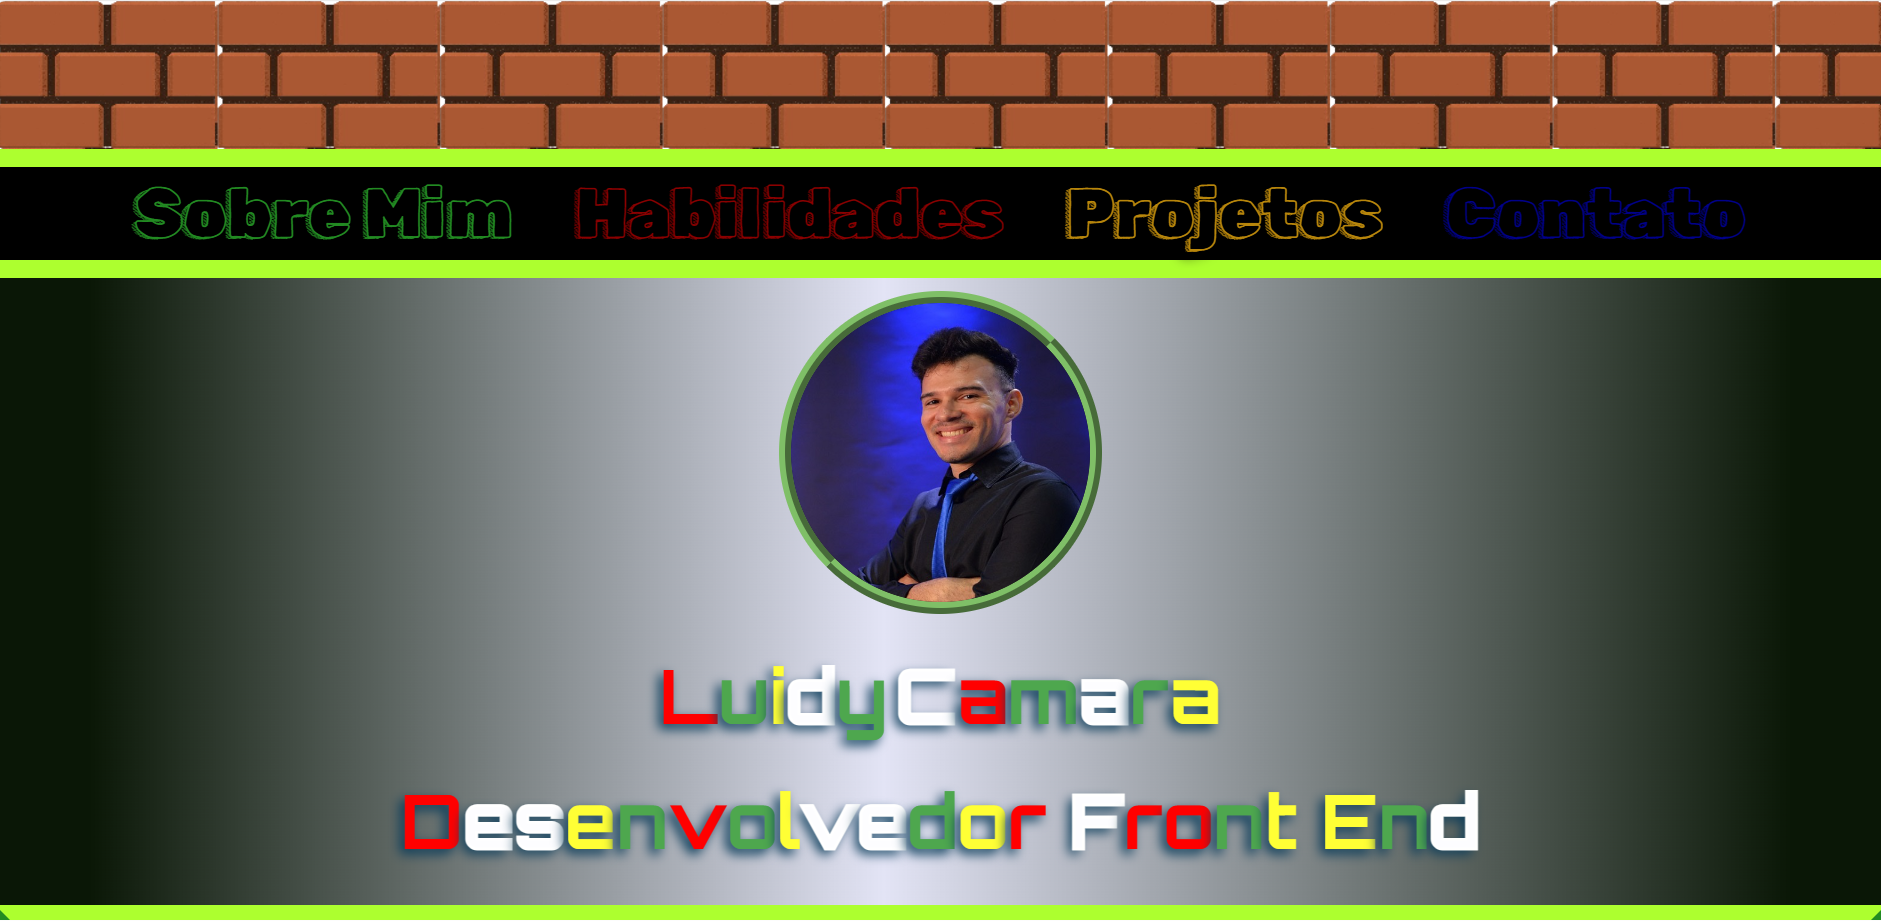
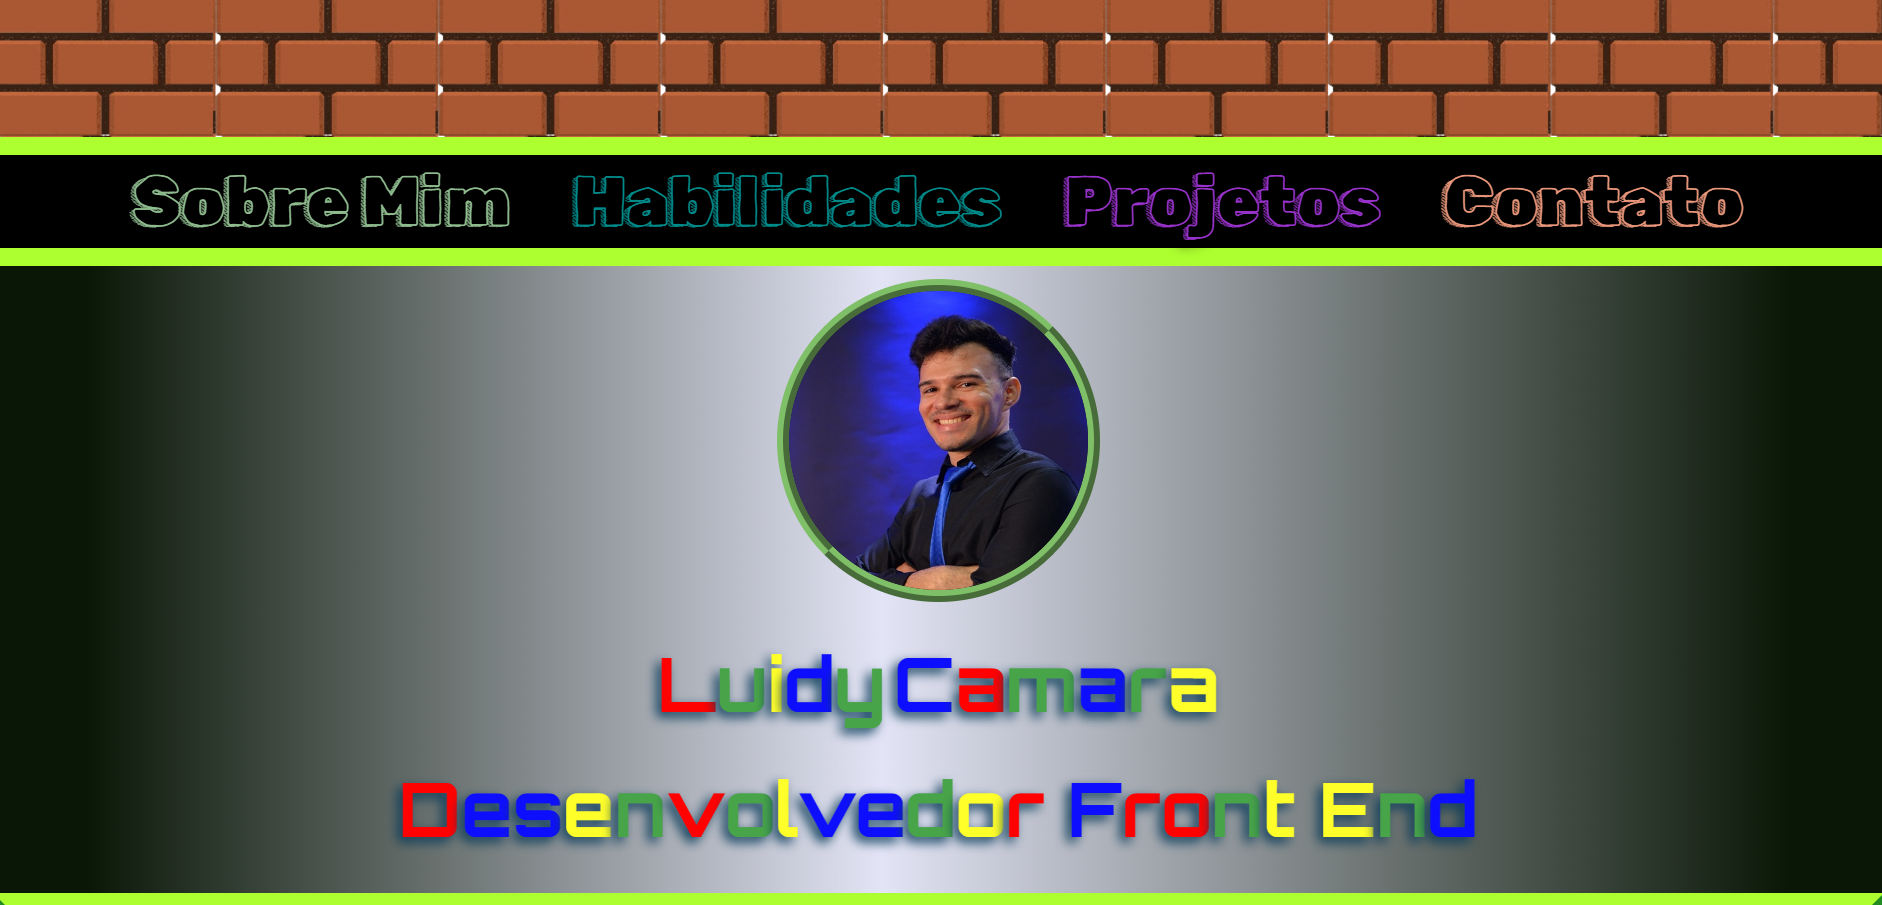
Projeto Concluído

Changed region(s): [[0.0, 0.0, 1.0, 0.6807], [0.0, 0.8663, 1.0, 1.0], [0.3392, 0.7116, 0.6475, 0.8044]]

diff --git a/src/css/projetos.css b/src/css/projetos.css
@@ -78,19 +78,19 @@ transition: transform 0.3s ease;
 
 @media(max-width:645px){
     .four{
-        bottom: 7%;
+        bottom: 5%;
         }
         
         .three{
-            bottom: 24%;
+            bottom: 22%;
             }
         
         .two{
-            bottom: 37%;
+            bottom: 39%;
                 }
             
         .one{
-             bottom: 54%;
+             bottom: 56%;
                         }
         .four, .three, .two, .one{
             left: 10%;

diff --git a/src/css/main.css b/src/css/main.css
@@ -27,7 +27,7 @@
 }
 
 .main-info-sobre-mim{
-color: #228B22;
+color: darkseagreen;
 transition: 0.5s ease-in-out;
 }
 
@@ -38,20 +38,19 @@ transition: 0.5s ease-in-out;
 }
 
 .main-info-habilidades{
-color: darkred;
+color:darkcyan;
 transition: 0.5s ease-in-out;
 }
 
 
 
 .main-info-projetos{
-   
-    color:darkgoldenrod;
+    color: darkorchid;
     transition: 0.5s ease-in-out;
 }
 
 .main-info-contato{
-    color:darkblue;
+    color: darksalmon;
     transition: 0.5s ease-in-out;
 }
 

diff --git a/src/css/globais.css b/src/css/globais.css
@@ -20,7 +20,7 @@ font-family: 'Orbitron', sans-serif;
     background-image: url('../imagens/TIJOLO_PNG.png');
     background-repeat: repeat-x;
     height: 178px;
-    width: 100%;
+    width: 100vw;
 }
 
 .tijolo-footer{
@@ -34,7 +34,7 @@ font-family: 'Orbitron', sans-serif;
   position: absolute;
     bottom: 0;
     height: 178px;
-    width: 100%;
+    width: 100vw;
 }
 
 .container{
